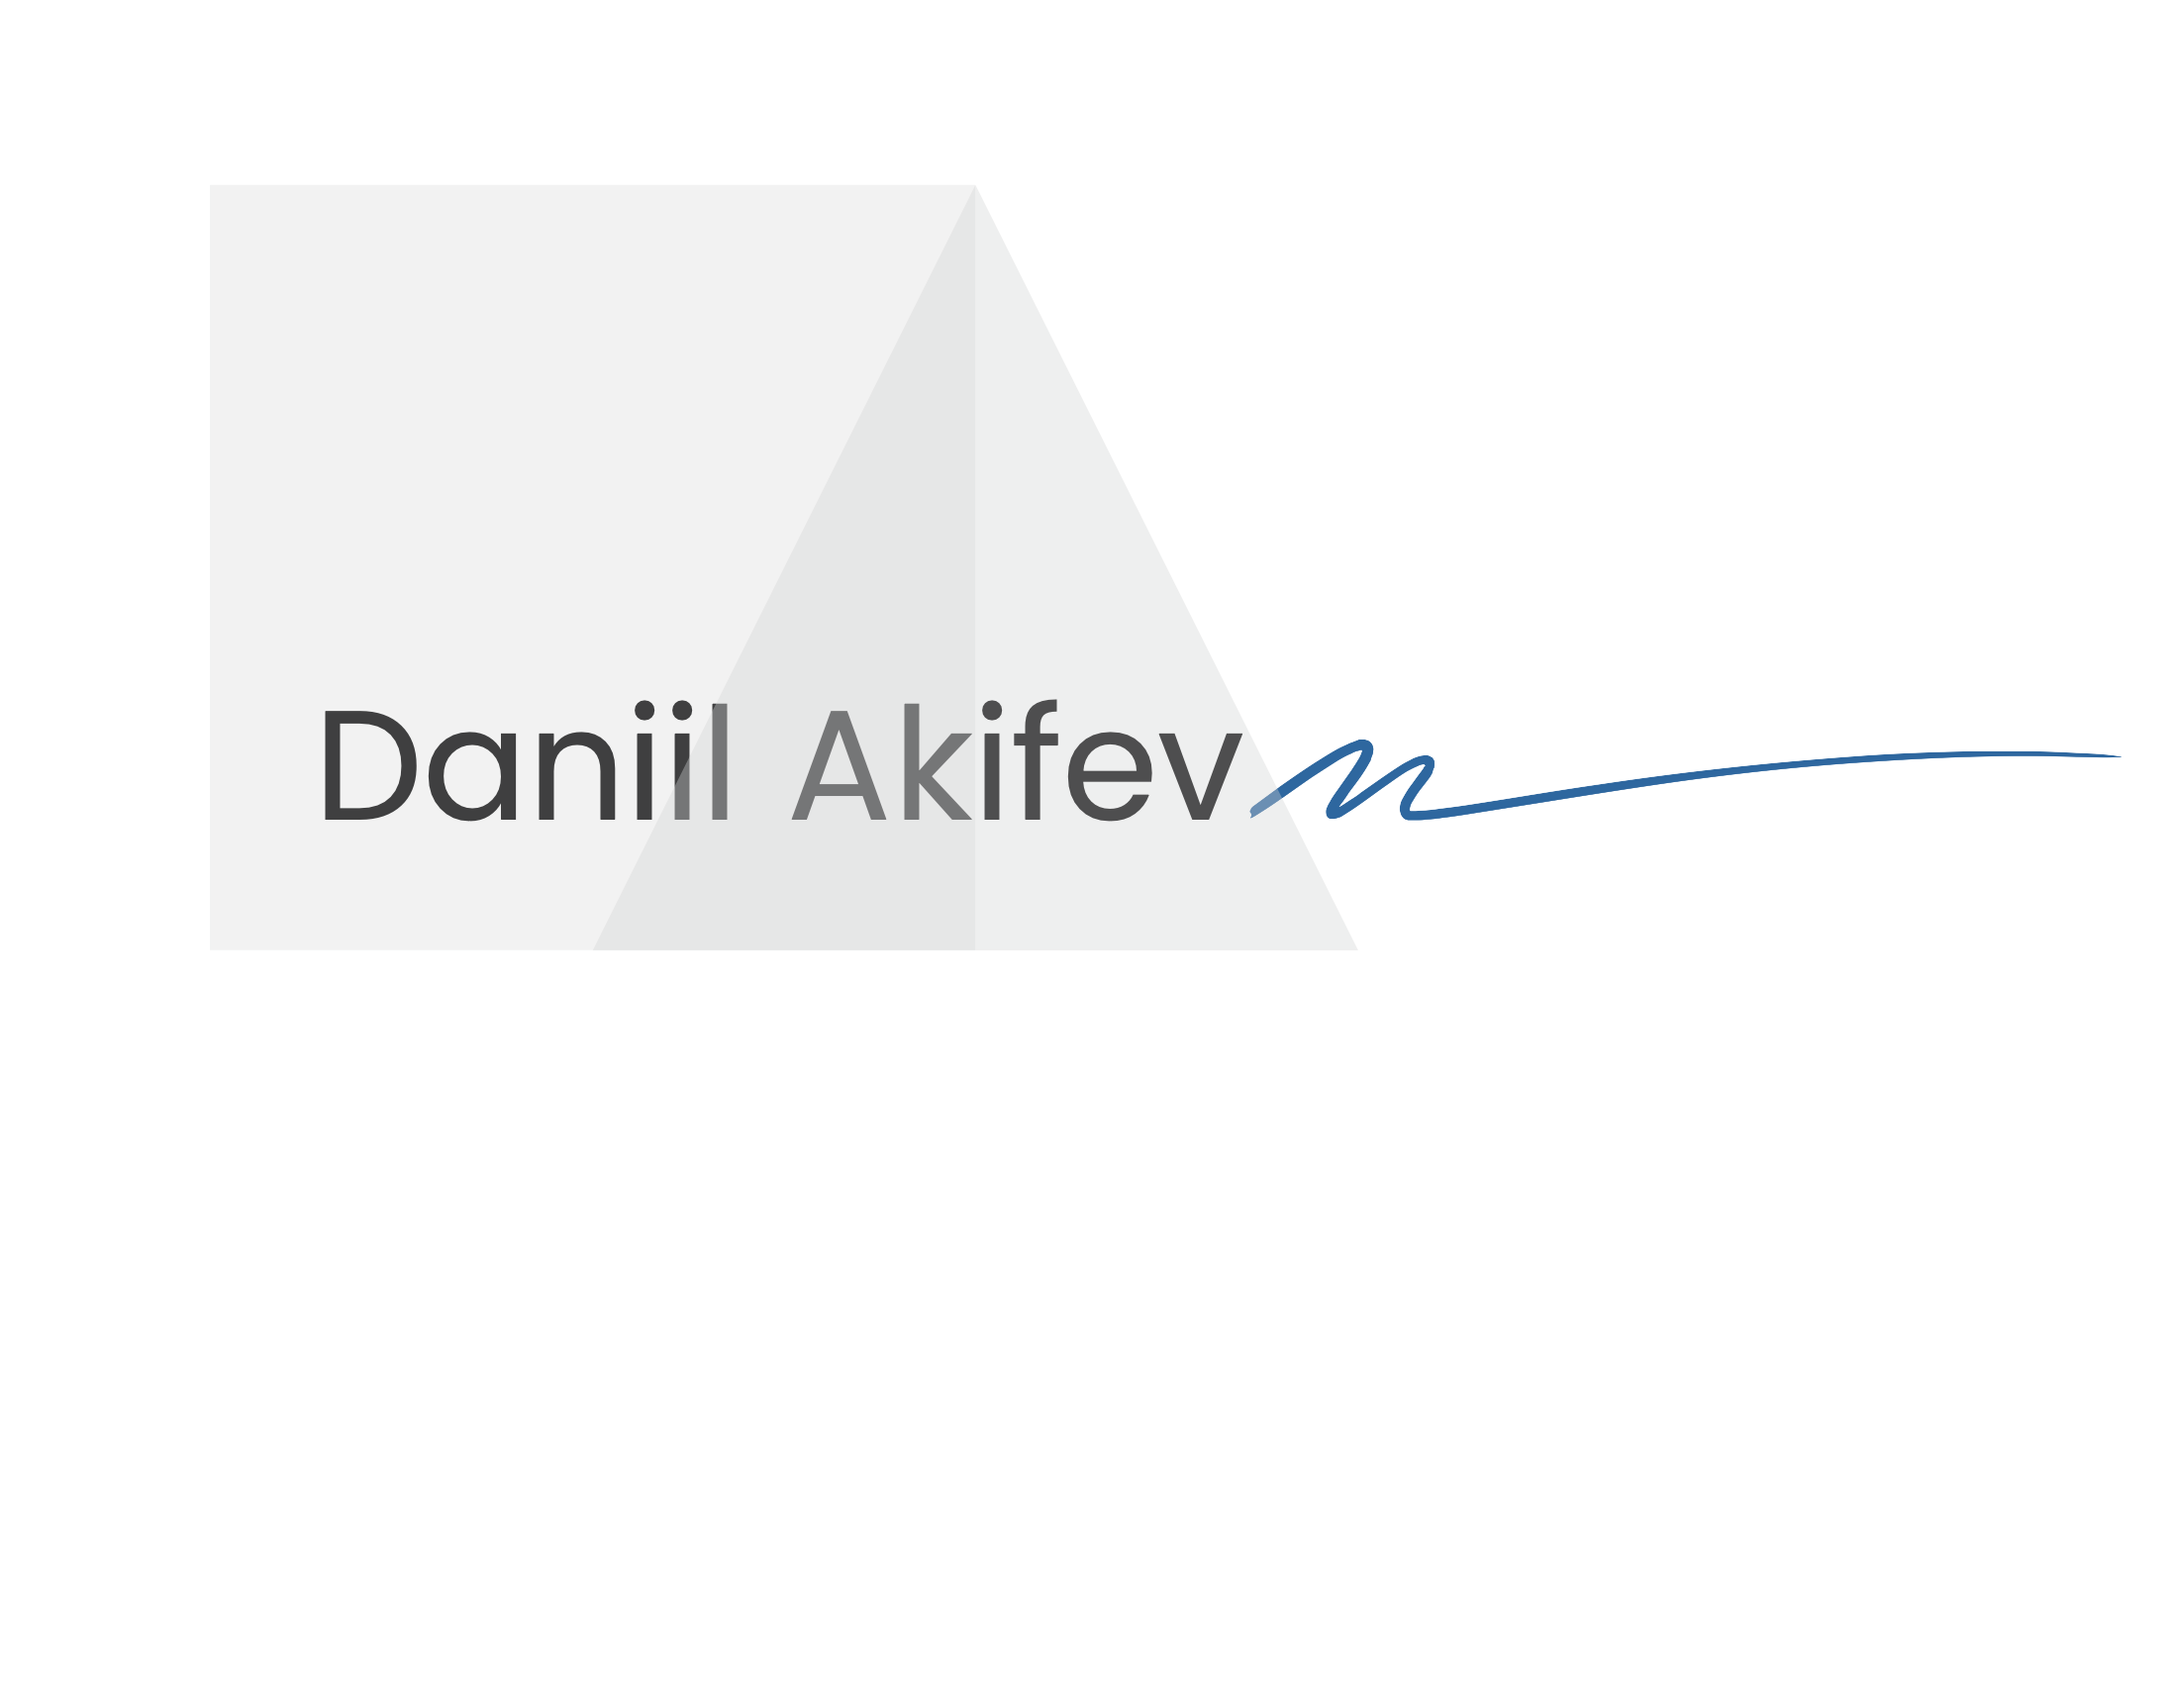
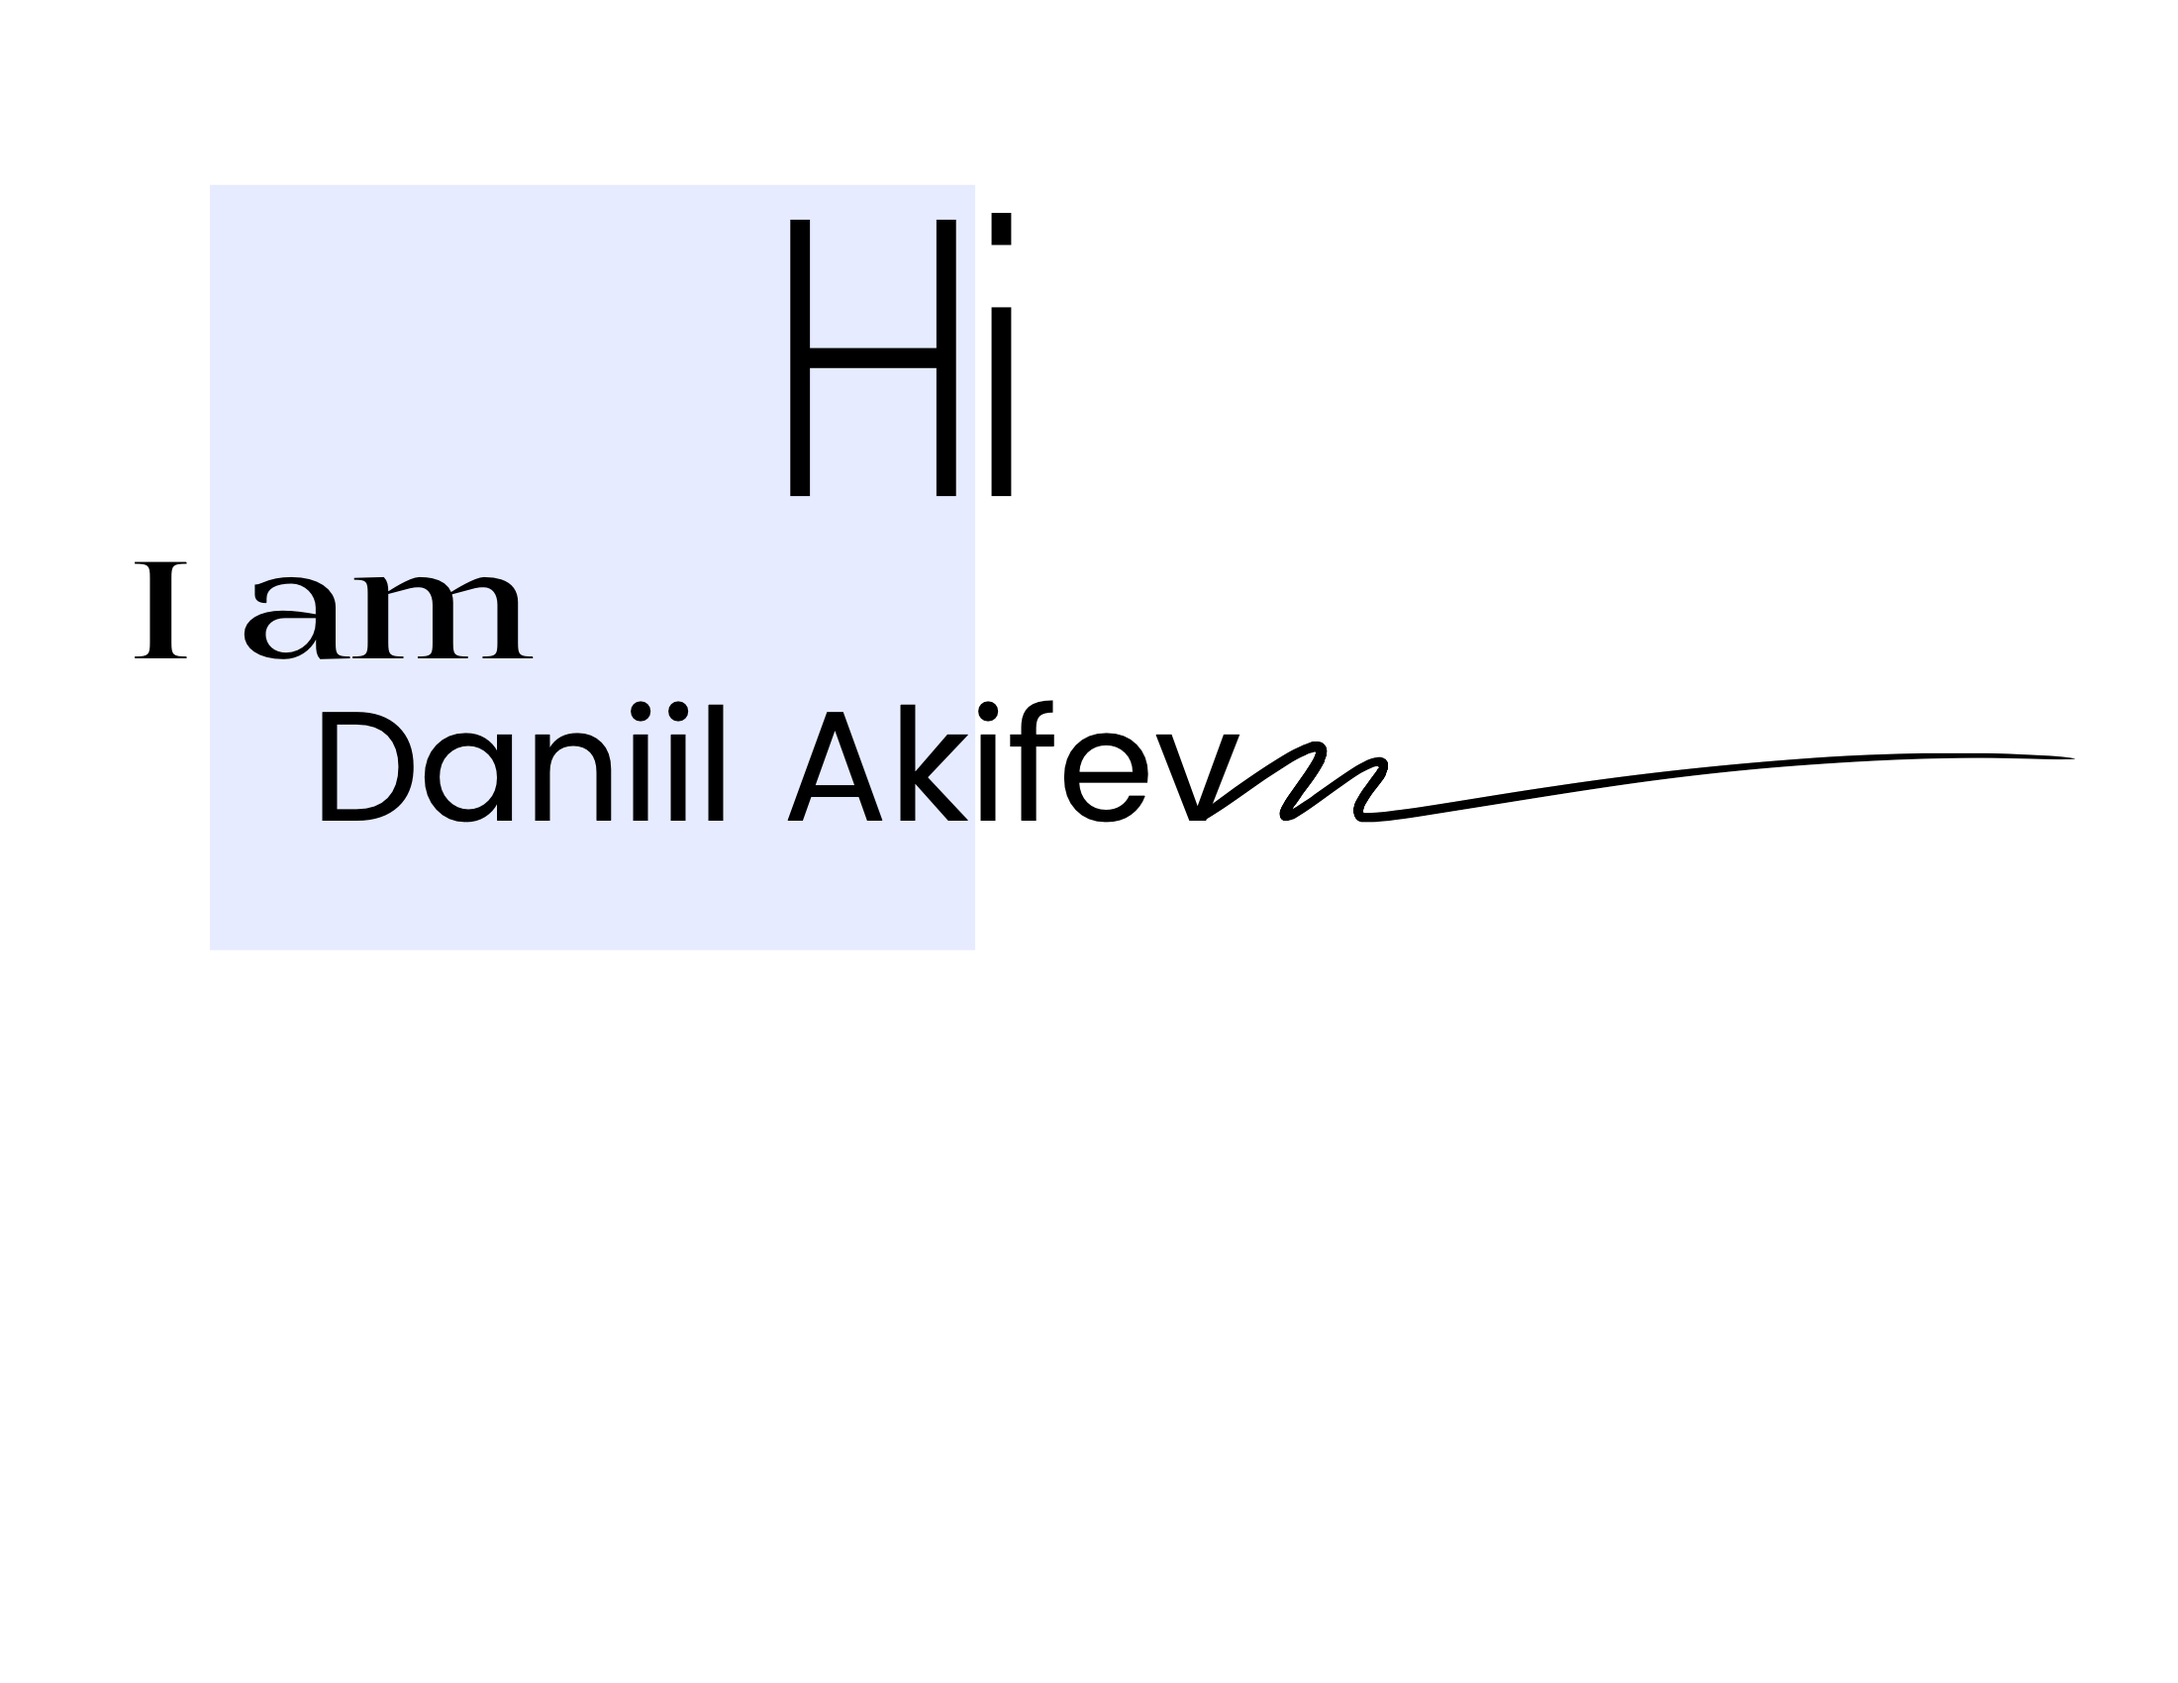
Change label

Changed region(s): [[0.0618, 0.3118, 0.9582, 0.4988], [0.34, 0.1247, 0.4636, 0.3118]]

diff --git a/README.md b/README.md
@@ -1,16 +1,1 @@
 ![Label](label.png)
-
-<!--
-**akifev/akifev** is a ✨ _special_ ✨ repository because its `README.md` (this file) appears on your GitHub profile.
-
-Here are some ideas to get you started:
-
-- 🔭 I’m currently working on ...
-- 🌱 I’m currently learning ...
-- 👯 I’m looking to collaborate on ...
-- 🤔 I’m looking for help with ...
-- 💬 Ask me about ...
-- 📫 How to reach me: ...
-- 😄 Pronouns: ...
-- ⚡ Fun fact: ...
--->
